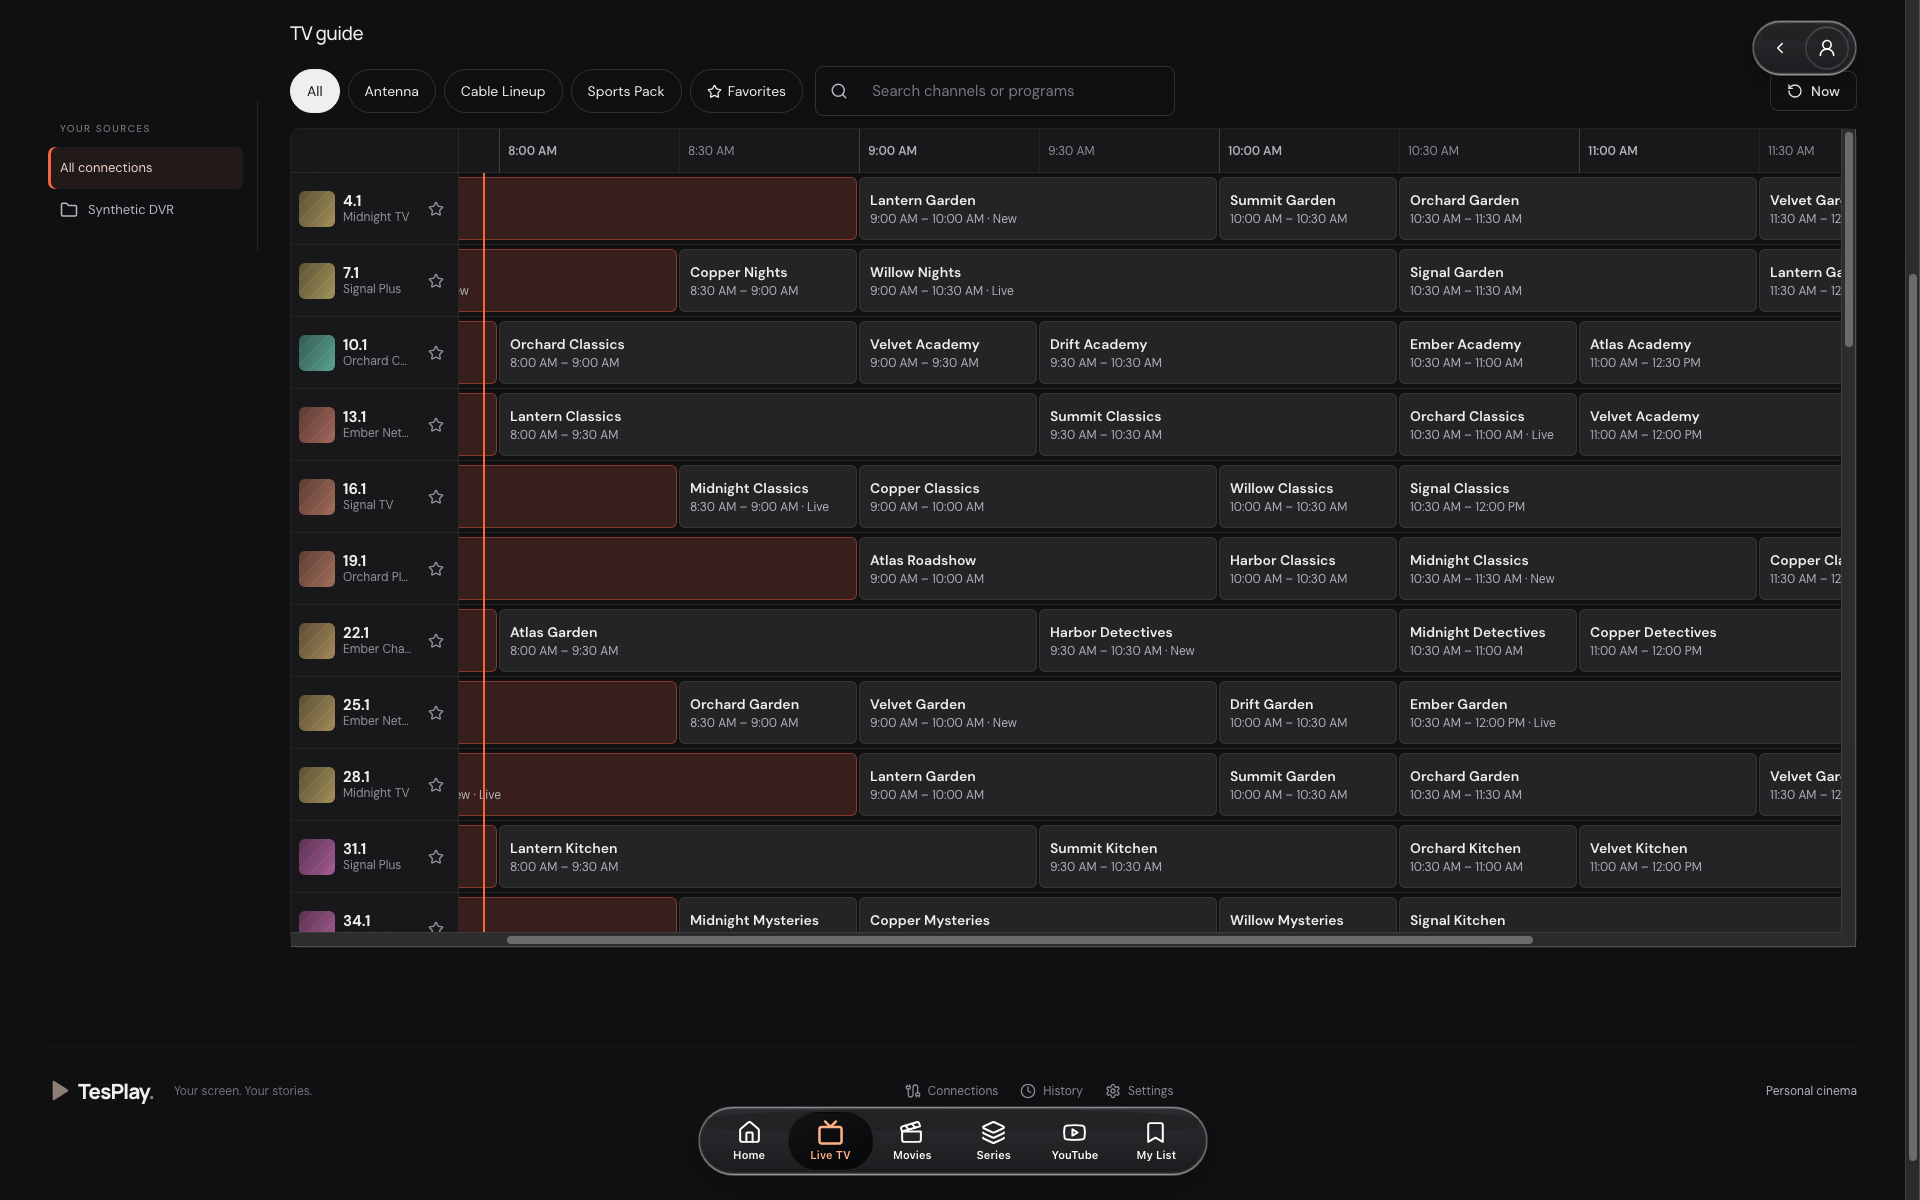
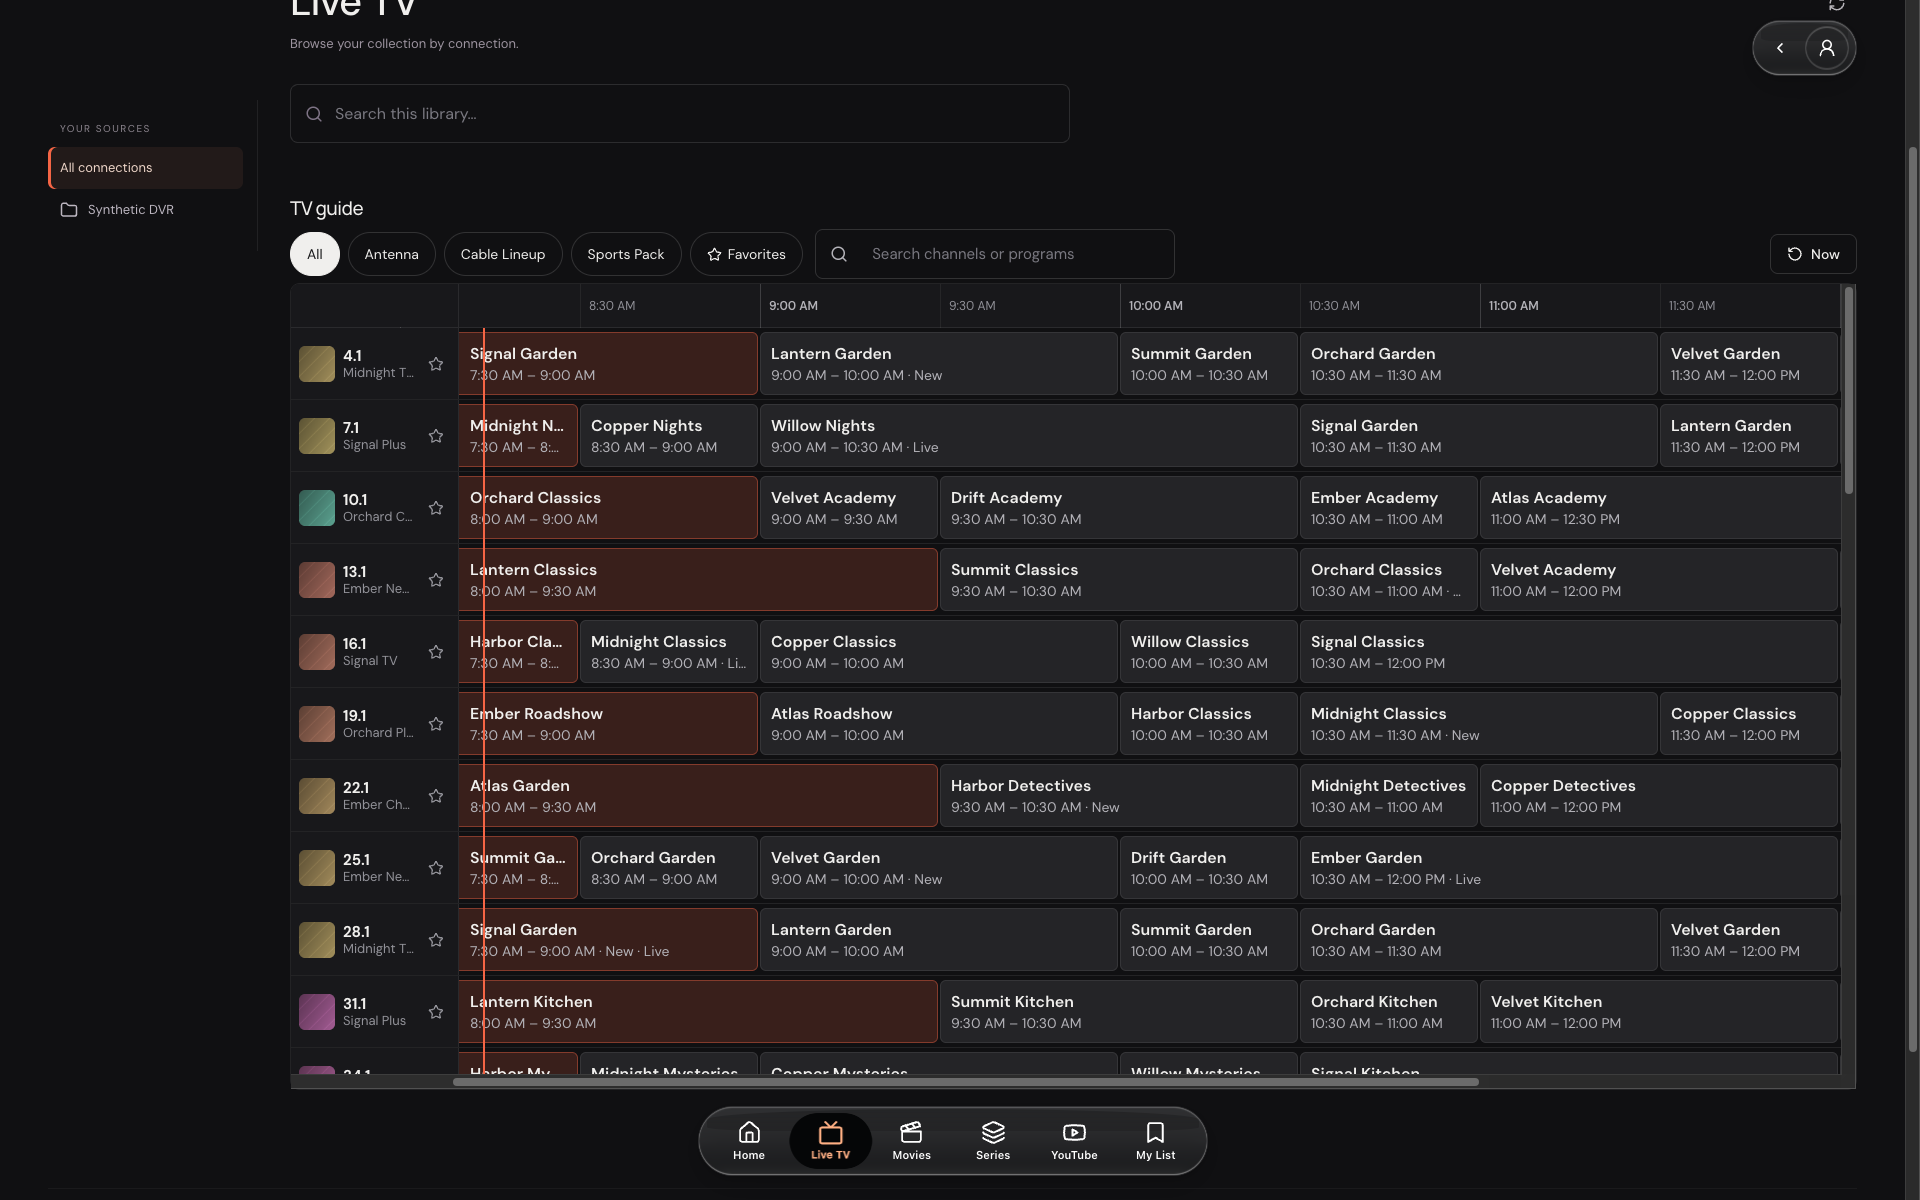
Keep current guide labels visible and clear the bottom navigation

diff --git a/src/ChannelsGuide.tsx b/src/ChannelsGuide.tsx
@@ -6,12 +6,11 @@ import { Busy, Empty } from './components';
 import type { Connection, Library, MediaItem } from './types';
 import ChannelsOnNow, { ChannelFilterBar, ChannelLogo, emptyFilter, useNowSeconds } from './ChannelsOnNow';
 import {
-  CHANNEL_COLUMN, ROW_HEIGHT, WINDOW_HOURS, cellLayout, channelFavorite, channelSources, episodeLabel, filterChannels, formatRange,
-  gridWidth, isCurrent, isNarrowLayout, liveItem, mergeGuide, needsNextWindow, nextWindow, nowLineX, scrollForNow, timeTicks, timeToX, visibleRows,
+  CHANNEL_COLUMN, MIN_CELL, ROW_HEIGHT, WINDOW_HOURS, cellLabelOffset, cellLayout, channelFavorite, channelSources, episodeLabel, filterChannels, formatRange,
+  gridViewportHeight, gridWidth, isCurrent, isNarrowLayout, liveItem, mergeGuide, needsNextWindow, nextWindow, nowLineX, scrollForNow, timeTicks, timeToX, visibleRows,
 } from './channels-guide';
 import type { GuideAiring, GuideChannel, GuideFilter, GuideResponse } from './channels-guide';
 
-const MIN_CELL = 36;
 type Selected = { channel: GuideChannel; airing: GuideAiring };
 type Airing = { channel: { id: string; number: string; name: string }; airing: GuideAiring };
 
@@ -66,7 +65,8 @@ function Details({ connection, selected, favorite, onWatch, onFavorite, onClose 
 function Grid({ connection, library, onOpen, onFavorite }: { connection: Connection; library: Library; onOpen: (i: MediaItem) => void; onFavorite: (i: MediaItem) => void }) {
   const [guide, setGuide] = useState<GuideResponse>(), [error, setError] = useState(''), [loadingMore, setLoadingMore] = useState(false);
   const [filter, setFilter] = useState<GuideFilter>(emptyFilter), [selected, setSelected] = useState<Selected>();
-  const [scroll, setScroll] = useState({ top: 0, height: 600 });
+  const [scroll, setScroll] = useState({ top: 0, left: 0, height: 600 });
+  const [gridHeight, setGridHeight] = useState(134);
   const now = useNowSeconds(), scroller = useRef<HTMLDivElement>(null), frame = useRef(0), guideRef = useRef<GuideResponse | undefined>(undefined), busy = useRef(false), positioned = useRef(false);
   const nowRef = useRef(now); nowRef.current = now;
   guideRef.current = guide;
@@ -99,14 +99,16 @@ function Grid({ connection, library, onOpen, onFavorite }: { connection: Connect
     const el = scroller.current; if (!el) return;
     const update = () => {
       frame.current = 0;
-      setScroll(s => (Math.abs(s.top - el.scrollTop) < 1 && s.height === el.clientHeight ? s : { top: el.scrollTop, height: el.clientHeight }));
+      setGridHeight(gridViewportHeight(window.innerHeight, el.getBoundingClientRect().top));
+      setScroll(s => (Math.abs(s.top - el.scrollTop) < 1 && s.left === el.scrollLeft && s.height === el.clientHeight ? s : { top: el.scrollTop, left: el.scrollLeft, height: el.clientHeight }));
       const current = guideRef.current;
       if (current && needsNextWindow(el.scrollLeft, el.clientWidth - CHANNEL_COLUMN, current.start, current.end, nowRef.current)) loadMore();
     };
     const onScroll = () => { if (!frame.current) frame.current = window.requestAnimationFrame(update); };
     update();
-    el.addEventListener('scroll', onScroll, { passive: true }); window.addEventListener('resize', onScroll);
-    return () => { el.removeEventListener('scroll', onScroll); window.removeEventListener('resize', onScroll); if (frame.current) window.cancelAnimationFrame(frame.current); };
+    const observer = new ResizeObserver(onScroll); observer.observe(el);
+    el.addEventListener('scroll', onScroll, { passive: true }); window.addEventListener('resize', onScroll); window.addEventListener('scroll', onScroll, { passive: true });
+    return () => { observer.disconnect(); el.removeEventListener('scroll', onScroll); window.removeEventListener('resize', onScroll); window.removeEventListener('scroll', onScroll); if (frame.current) window.cancelAnimationFrame(frame.current); };
   }, [!!guide, loadMore]); // eslint-disable-line react-hooks/exhaustive-deps
 
   // A loaded window may still leave the viewport near its end (wide screens): keep extending.
@@ -137,7 +139,7 @@ function Grid({ connection, library, onOpen, onFavorite }: { connection: Connect
     </ChannelFilterBar>
     {error && <div className="form-error" role="alert">{error}</div>}
     {!guide && !error ? <Busy label="Loading the TV guide…" /> : guide && !rows.length ? <Empty title="No channels match">Clear the filter or search to see all channels.</Empty> : guide &&
-      <div className="cg-scroller" ref={scroller} role="grid" aria-label={`${connection.name} TV guide`} aria-rowcount={rows.length}>
+      <div className="cg-scroller" ref={scroller} style={{ height: gridHeight }} role="grid" aria-label={`${connection.name} TV guide`} aria-rowcount={rows.length}>
         <div className="cg-canvas" style={{ width: CHANNEL_COLUMN + width, height: 44 + rows.length * ROW_HEIGHT }}>
           <div className="cg-header" role="row">
             <div className="cg-corner" style={{ width: CHANNEL_COLUMN }} />
@@ -159,8 +161,10 @@ function Grid({ connection, library, onOpen, onFavorite }: { connection: Connect
                   {channel.airings.map(airing => {
                     const { left, width: w } = cellLayout(airing, guide.start, guide.end);
                     if (w <= 0) return null;
+                    const cellWidth = Math.max(MIN_CELL, w - 2);
+                    const labelOffset = cellLabelOffset(scroll.left, left, cellWidth);
                     return <button key={airing.start} type="button" role="gridcell" className={`cg-cell ${isCurrent(airing, now) ? 'current' : ''}`}
-                      style={{ left, width: Math.max(MIN_CELL, w - 2) }} onClick={() => tap(channel, airing)}
+                      style={{ left, width: cellWidth, paddingLeft: 10 + labelOffset }} onClick={() => tap(channel, airing)}
                       aria-label={`${airing.title}, ${formatRange(airing)}${isCurrent(airing, now) ? ', on now' : ''}`}>
                       <span className="cg-cell-title">{airing.title}</span>
                       <span className="cg-cell-meta">{formatRange(airing)}{airing.isNew ? ' · New' : ''}{airing.isLive ? ' · Live' : ''}</span>

diff --git a/src/channels-guide.css b/src/channels-guide.css
@@ -1,7 +1,7 @@
 /* Channels DVR guide. Flat fills and no filters/shadows on cells: this runs on old in-car browsers. */
 .cg-guide { margin: 0 0 32px; }
-.cg-guide .section-heading { display: flex; align-items: center; justify-content: space-between; gap: 16px; flex-wrap: wrap; }
-.cg-filters { display: flex; align-items: center; gap: 12px; flex-wrap: wrap; margin: 0 0 12px; }
+.cg-guide .section-heading { display: flex; align-items: center; justify-content: space-between; gap: 16px; flex-wrap: wrap; margin-bottom: 8px; }
+.cg-filters { display: flex; align-items: center; gap: 12px; flex-wrap: wrap; margin: 0 0 4px; }
 .cg-chips { display: flex; gap: 8px; flex-wrap: wrap; }
 .cg-chip { display: inline-flex; align-items: center; gap: 6px; min-height: 44px; padding: 0 16px; border-radius: 22px; border: 1px solid #ffffff24; background: transparent; color: var(--text); font-size: 14px; cursor: pointer; }
 .cg-chip.selected { background: var(--text); color: #171719; border-color: var(--text); }
@@ -9,7 +9,7 @@
 .cg-search input { flex: 1; min-width: 0; background: none; border: 0; outline: 0; color: var(--text); font-size: 15px; height: 42px; }
 .cg-now-button { margin-left: auto; min-height: 44px; }
 
-.cg-scroller { position: relative; overflow: auto; height: clamp(340px, calc(100vh - 250px), 820px); border: 1px solid var(--line); border-radius: 10px; background: var(--bg); overscroll-behavior: contain; -webkit-overflow-scrolling: touch; touch-action: pan-x pan-y; }
+.cg-scroller { position: relative; overflow: auto; border: 1px solid var(--line); border-radius: 10px; background: var(--bg); overscroll-behavior: contain; -webkit-overflow-scrolling: touch; touch-action: pan-x pan-y; }
 .cg-canvas { position: relative; }
 .cg-header { position: sticky; top: 0; z-index: 6; display: flex; height: 44px; background: var(--surface); border-bottom: 1px solid var(--line); }
 .cg-corner { position: sticky; left: 0; z-index: 7; flex: none; background: var(--surface); border-right: 1px solid var(--line); }
@@ -22,7 +22,7 @@
 .cg-channel-play { display: flex; align-items: center; gap: 8px; flex: 1; min-width: 0; height: 100%; padding: 0 0 0 8px; background: none; border: 0; color: var(--text); cursor: pointer; text-align: left; }
 .cg-channel-text { display: flex; flex-direction: column; min-width: 0; line-height: 1.2; }
 .cg-channel-text strong { font-size: 15px; }
-.cg-channel-text small { font-size: 12px; color: var(--muted); overflow: hidden; text-overflow: ellipsis; white-space: nowrap; }
+.cg-channel-text small { font-size: 13px; color: var(--muted); overflow: hidden; text-overflow: ellipsis; white-space: nowrap; }
 .cg-logo { flex: none; display: grid; place-items: center; width: 36px; height: 36px; border-radius: 6px; background: #ffffff10; color: var(--muted); overflow: hidden; }
 .cg-logo img { width: 100%; height: 100%; object-fit: contain; }
 .cg-star { flex: none; display: grid; place-items: center; width: 44px; height: 44px; background: none; border: 0; border-radius: 22px; color: var(--muted); cursor: pointer; }
@@ -30,8 +30,8 @@
 .cg-programs { position: relative; flex: none; height: 100%; }
 .cg-cell { position: absolute; top: 4px; bottom: 4px; display: flex; flex-direction: column; justify-content: center; gap: 2px; padding: 0 10px; overflow: hidden; text-align: left; background: var(--raised); border: 1px solid var(--line); border-radius: 6px; color: var(--text); cursor: pointer; }
 .cg-cell.current { background: #f565452e; border-color: #f5654566; }
-.cg-cell-title { font-size: 14px; font-weight: 600; overflow: hidden; text-overflow: ellipsis; white-space: nowrap; }
-.cg-cell-meta { font-size: 12px; color: var(--secondary); overflow: hidden; text-overflow: ellipsis; white-space: nowrap; }
+.cg-cell-title { font-size: 16px; line-height: 20px; font-weight: 600; overflow: hidden; text-overflow: ellipsis; white-space: nowrap; }
+.cg-cell-meta { font-size: 14px; line-height: 18px; color: var(--secondary); overflow: hidden; text-overflow: ellipsis; white-space: nowrap; }
 .cg-empty-cell { position: absolute; top: 4px; bottom: 4px; display: flex; align-items: center; padding: 0 12px; color: var(--muted); font-size: 13px; }
 .cg-nowline { position: absolute; top: 44px; bottom: 0; z-index: 3; width: 2px; background: var(--accent); pointer-events: none; }
 .cg-loading-more { margin: 8px 0 0; font-size: 13px; color: var(--muted); }

diff --git a/tests/channels-guide-ui.test.js b/tests/channels-guide-ui.test.js
@@ -32,11 +32,26 @@ test('time maps to pixels at 6 px per minute and back', () => {
   assert.equal(g.cellLayout(a(O + 20000, 30), O, O + 10800).width, 0);
 });
 
+test('cell labels follow the visible time edge without escaping the cell', () => {
+  assert.equal(g.cellLabelOffset(100, 120, 180), 0, 'fully visible cell stays unchanged');
+  assert.equal(g.cellLabelOffset(156, 0, 358), 156, 'current cell title clears the sticky channel column');
+  assert.equal(g.cellLabelOffset(330, 0, 358), 0, 'less than MIN_CELL remains: leave the label alone');
+  assert.equal(g.cellLabelOffset(900, 0, 2000), 900, 'cell wider than the viewport follows its left edge');
+  assert.equal(g.cellLabelOffset(322, 0, 358), 322, 'exactly MIN_CELL remains inside the cell');
+});
+
 test('the now line sits at the elapsed minutes and "now" scrolls near the left edge', () => {
   assert.equal(g.nowLineX(O + 1800, O), 180);
   assert.equal(g.scrollForNow(O + 1800, O), 180 - 24); assert.equal(g.scrollForNow(O, O), 0, 'never negative');
   assert.equal(g.isCurrent(a(O, 30), O), true); assert.equal(g.isCurrent(a(O, 30), O + 1800), false, 'end is exclusive');
   assert.equal(g.airingProgress(a(O, 60), O + 900), 25); assert.equal(g.airingProgress(a(O, 60), O - 5), 0); assert.equal(g.airingProgress(a(O, 60), O + 99999), 100);
+});
+
+test('grid height clears the floating navigation in normal page flow', () => {
+  assert.equal(g.gridViewportHeight(720, 471), 139, 'rear screen: header, scrollbar and a full 72px row fit');
+  assert.equal(g.gridViewportHeight(1200, 493), 597, 'front screen stays above the dock');
+  assert.equal(g.gridViewportHeight(1600, 100), 820, 'keep the existing maximum');
+  assert.equal(g.gridViewportHeight(600, 550), 134, 'never smaller than a header, scrollbar and one row');
 });
 
 test('visible row window renders only the viewport plus overscan', () => {

diff --git a/src/channels-guide.ts b/src/channels-guide.ts
@@ -17,6 +17,10 @@ export const PX_PER_MINUTE = 6;
 export const ROW_HEIGHT = 72;
 export const OVERSCAN_ROWS = 6;
 export const CHANNEL_COLUMN = 168;
+export const MIN_CELL = 36;
+/** Reserve 70px dock + 24px bottom offset + 16px clearance; keep a full row below the header. */
+export const gridViewportHeight = (viewportHeight: number, gridTop: number): number =>
+  Math.max(44 + ROW_HEIGHT + 18, Math.min(820, viewportHeight - Math.max(0, gridTop) - 110));
 export const WINDOW_HOURS = 3;
 export const MAX_AHEAD_HOURS = 24;
 export const NARROW_BREAKPOINT = 700;
@@ -67,6 +71,13 @@ export const nextWindow = (loadedEnd: number, now: number, maxAheadHours = MAX_A
 
 /** Scroll position that puts "now" close to the left edge (just after the sticky channel column). */
 export const scrollForNow = (now: number, origin: number, lead = 24): number => Math.max(0, nowLineX(now, origin) - lead);
+
+/** Pin labels after the sticky channel column; don't chase cells with less than MIN_CELL left. */
+export function cellLabelOffset(scrollLeft: number, cellLeft: number, cellWidth: number): number {
+  const offset = Math.max(0, scrollLeft - cellLeft);
+  const limit = Math.max(0, cellWidth - MIN_CELL);
+  return offset > limit ? 0 : Math.min(offset, limit);
+}
 
 const same = (a: GuideAiring, b: GuideAiring) => a.start === b.start && a.end === b.end;
 /** Add a newly loaded window. Channels keep their order; duplicated airings at window seams are dropped. */

diff --git a/docs/channels-guide.md b/docs/channels-guide.md
@@ -126,3 +126,5 @@ Implemented on `feature/channels-guide` (based on `homelab` @ adb493b). Nothing 
 - The visual check used a fake DVR bound to this Mac's private LAN address (`FAKE_CHANNELS_HOST=<ip>`), not 127.0.0.1, because TesPlay's SSRF guard rejects loopback destinations for provider URLs. Traffic stayed on the machine. The fake serves generated PNG placeholders because the artwork proxy refuses SVG.
 - No Tesla/Intel Atom hardware test and no real DVR test was done. Playback taps were not exercised (no media in the fake); they call the same `onOpen` live item as v1.
 - Screenshots (1920×1200, 1280×720, 390×844) are in `docs/screenshots/channels-guide/`. The phone set shows the On now list instead of the grid and has no details sheet, as designed.
+
+**Rework r1 — 2026-11-05:** The existing rAF handler now tracks horizontal scroll as well as the virtual row window; the pure `cellLabelOffset` helper pins labels to the visible time-area edge using cell padding, without sticky children, extra timers, filters or shadows. Cells with less than `MIN_CELL` (36 px) remaining are left alone. Titles are 16 px/20 px line height, metadata 14 px/18 px, and grid channel names 13 px, fitting both text lines inside 72 px rows. `gridViewportHeight` sizes the scroller from its actual viewport top, reserving 110 px for the floating dock and clearance, with room for the header, one full row and a native scrollbar; a ResizeObserver and the same rAF handler update this on resize/page scroll. Compact heading/filter margins keep that minimum clear at 1280×720; normal unscrolled page flow shows one full row there, and page scrolling expands the grid. Synthetic Chrome checks at 1280×720 and 1920×1200 confirmed the last row is fully above the dock and hit-testable (row bottoms 594/1074 px vs dock tops 626/1106 px), with only 8/14 of 40 rows rendered at the bottom and actual current-title text starting 12 px after the sticky edge. Added two unit tests covering label offsets (fully visible, left-clipped, almost gone, wider than viewport, minimum-width boundary) and viewport sizing. Recaptured both `guide-*`, both `details-*`, and phone Home Recently recorded; added `guide-bottom-normal-*` evidence with page scroll at zero. All 13 screenshots were inspected. The six unchanged shelf/On now screenshots remain baseline evidence; optional `/airing` and phone Next ordering were not changed. Verification remains synthetic/local only, with no playback, real DVR, Tesla hardware, push or deployment; rerun `npm test && npm run build` on the final commit before acceptance.
